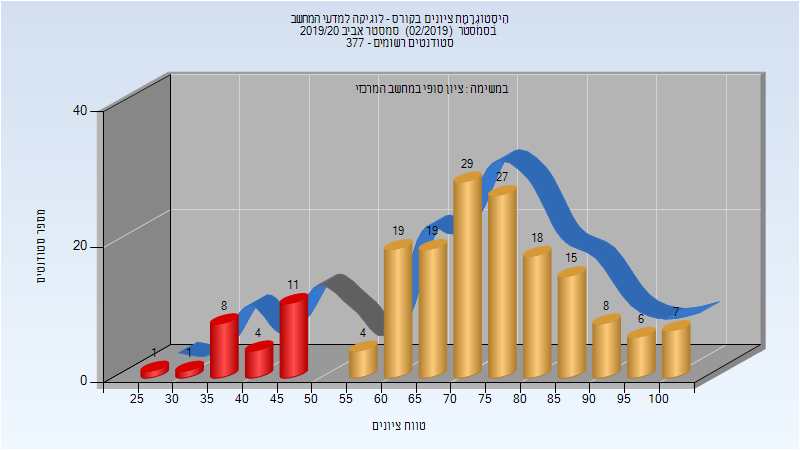
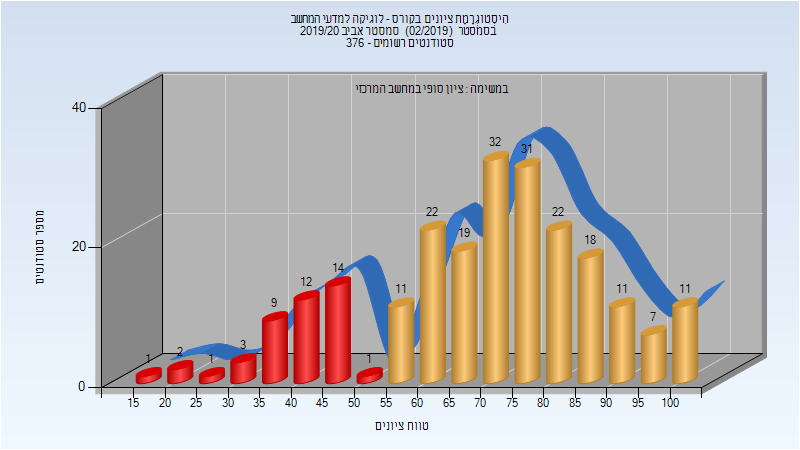
Deploy michael-maltsev/technion-histograms to github.com/michael-maltsev/technion-histograms.git:gh-pages

diff --git a/234292/index.html b/234292/index.html
@@ -134,13 +134,13 @@
 </thead>
 <tbody>
 <tr>
-<td>177</td>
-<td>152/25</td>
-<td>86</td>
-<td>28</td>
+<td>227</td>
+<td>184/43</td>
+<td>81</td>
+<td>18</td>
 <td>100</td>
-<td>71.706</td>
-<td>73</td>
+<td>69.85</td>
+<td>72</td>
 </tr>
 </tbody>
 </table>

diff --git a/234292/README.md b/234292/README.md
@@ -40,5 +40,5 @@
 
 | סטודנטים | עברו/נכשלו | אחוז עוברים | ציון מינימלי | ציון מקסימלי | ממוצע | חציון |
 | ---- | ---- | ---- | ---- | ---- | ---- | ---- |
-| 177 | 152/25 | 86 | 28 | 100 | 71.706 | 73 |
+| 227 | 184/43 | 81 | 18 | 100 | 69.85 | 72 |
 
